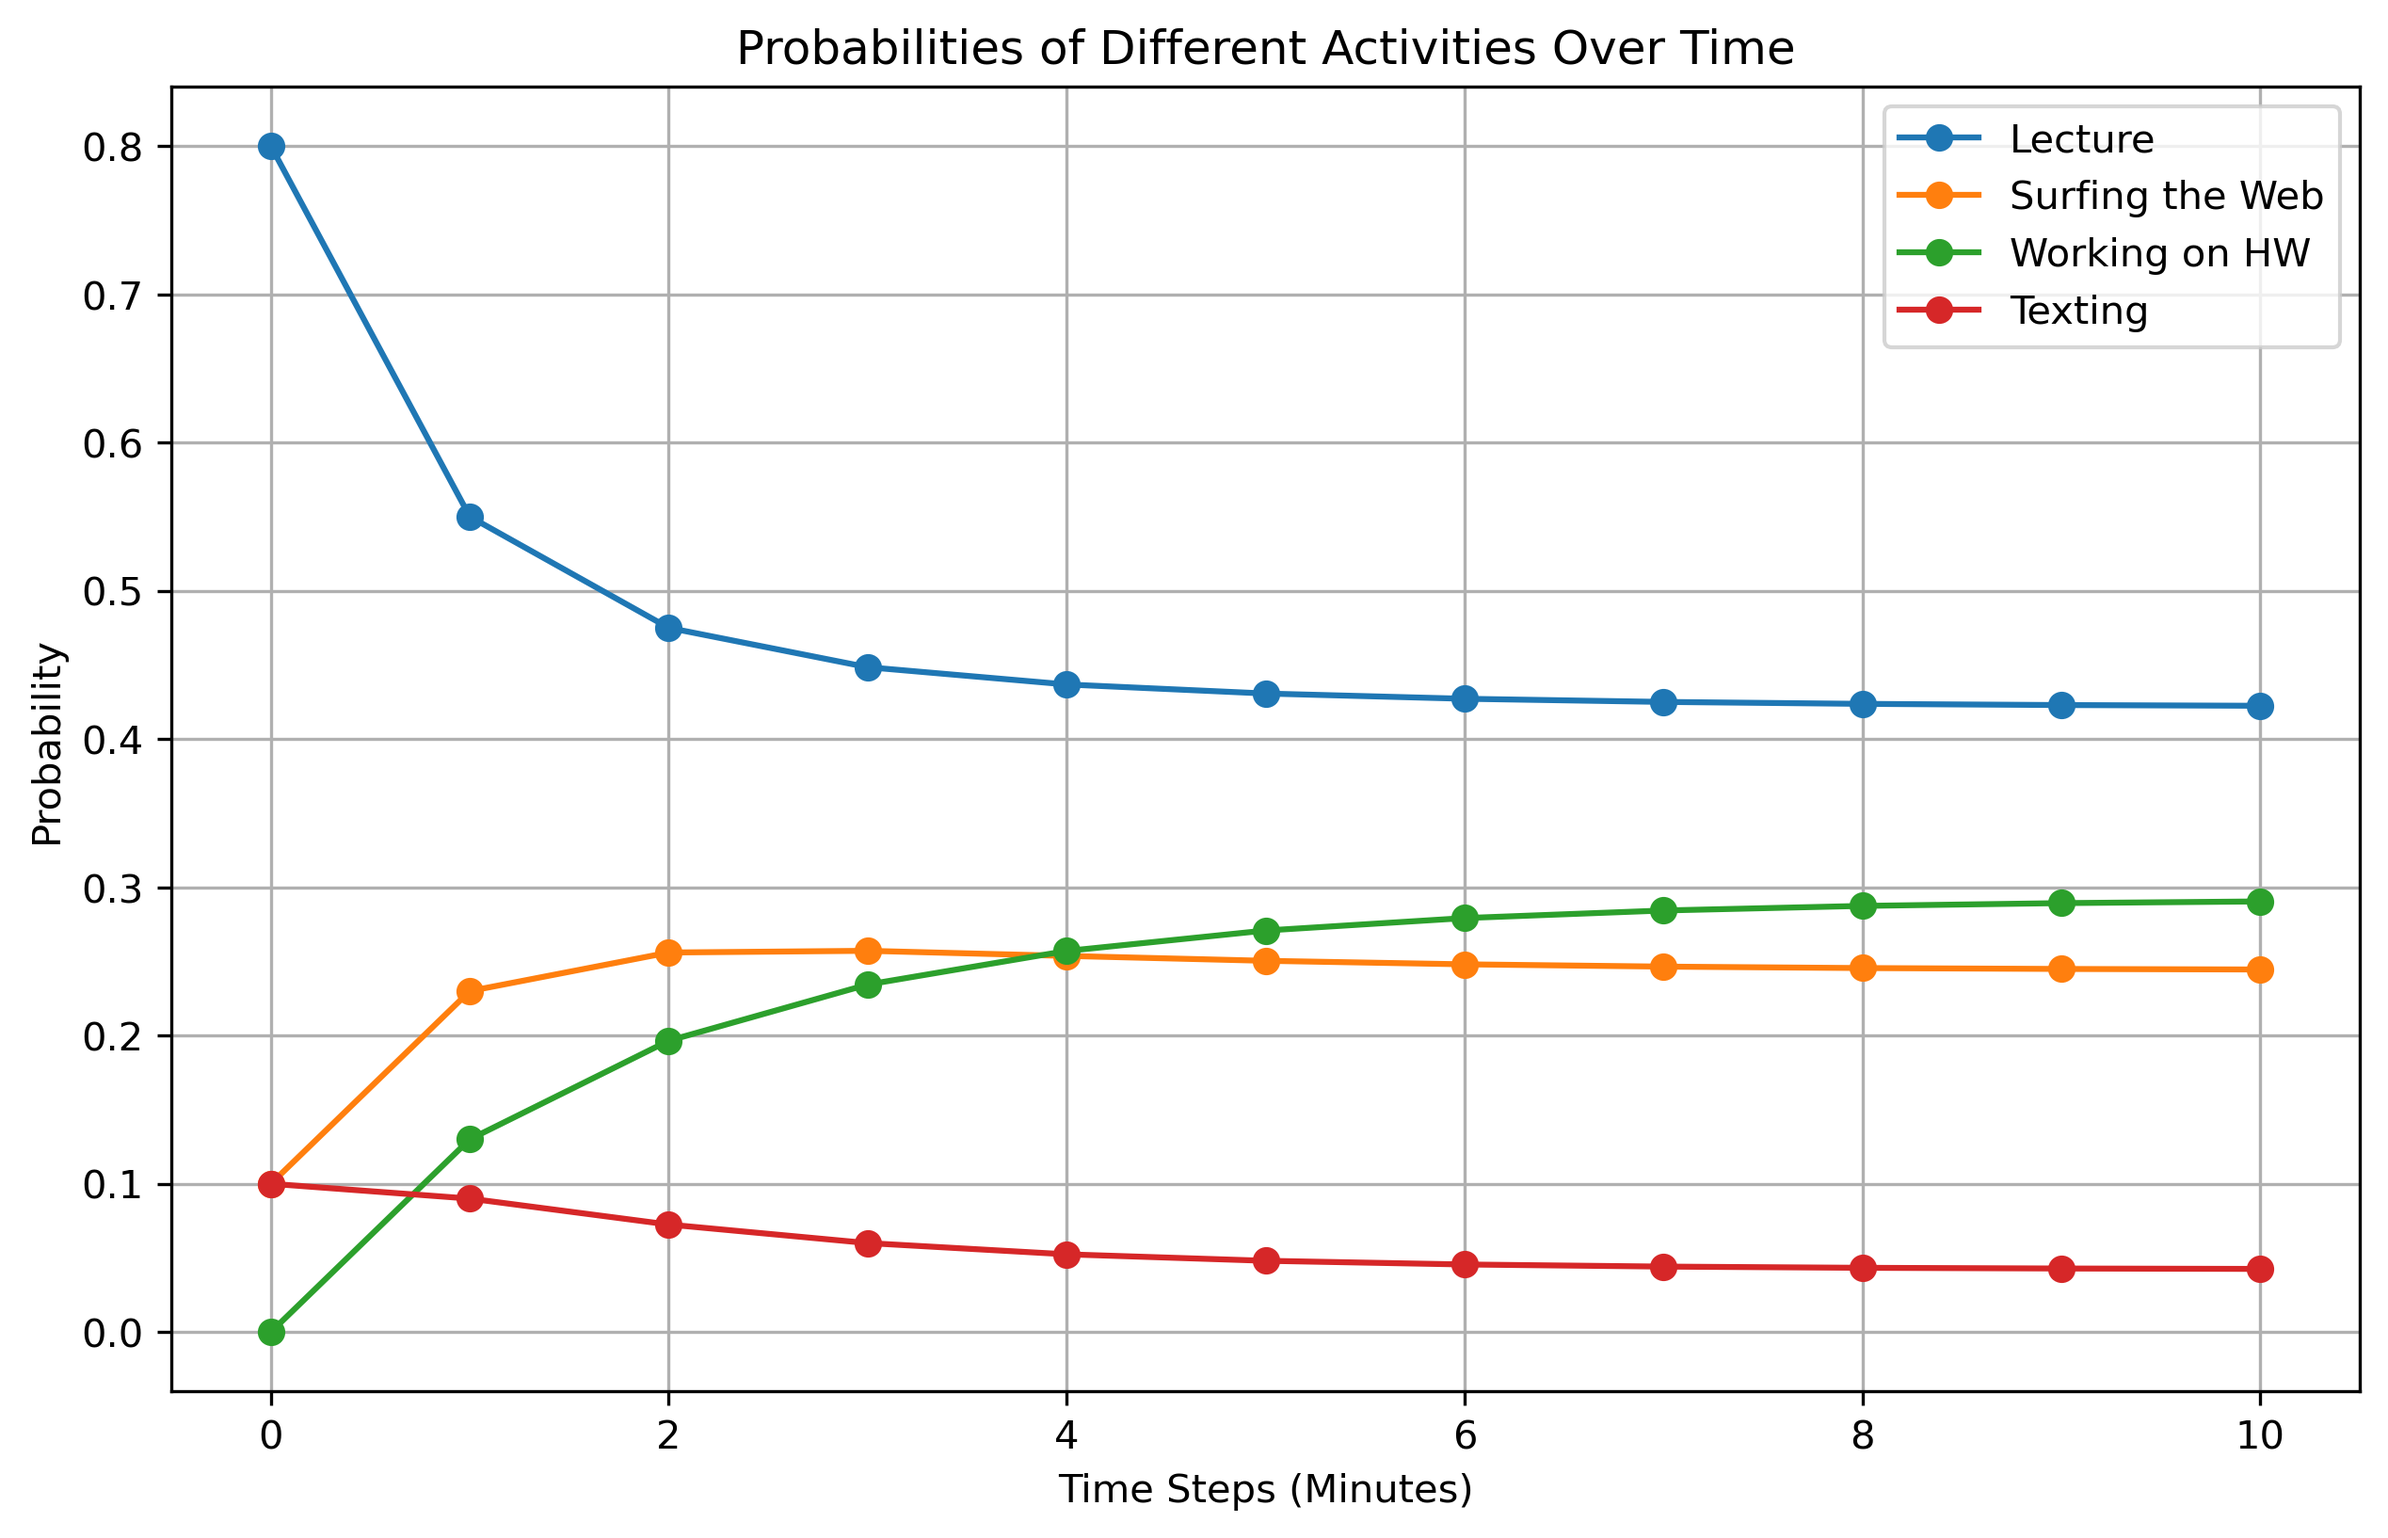
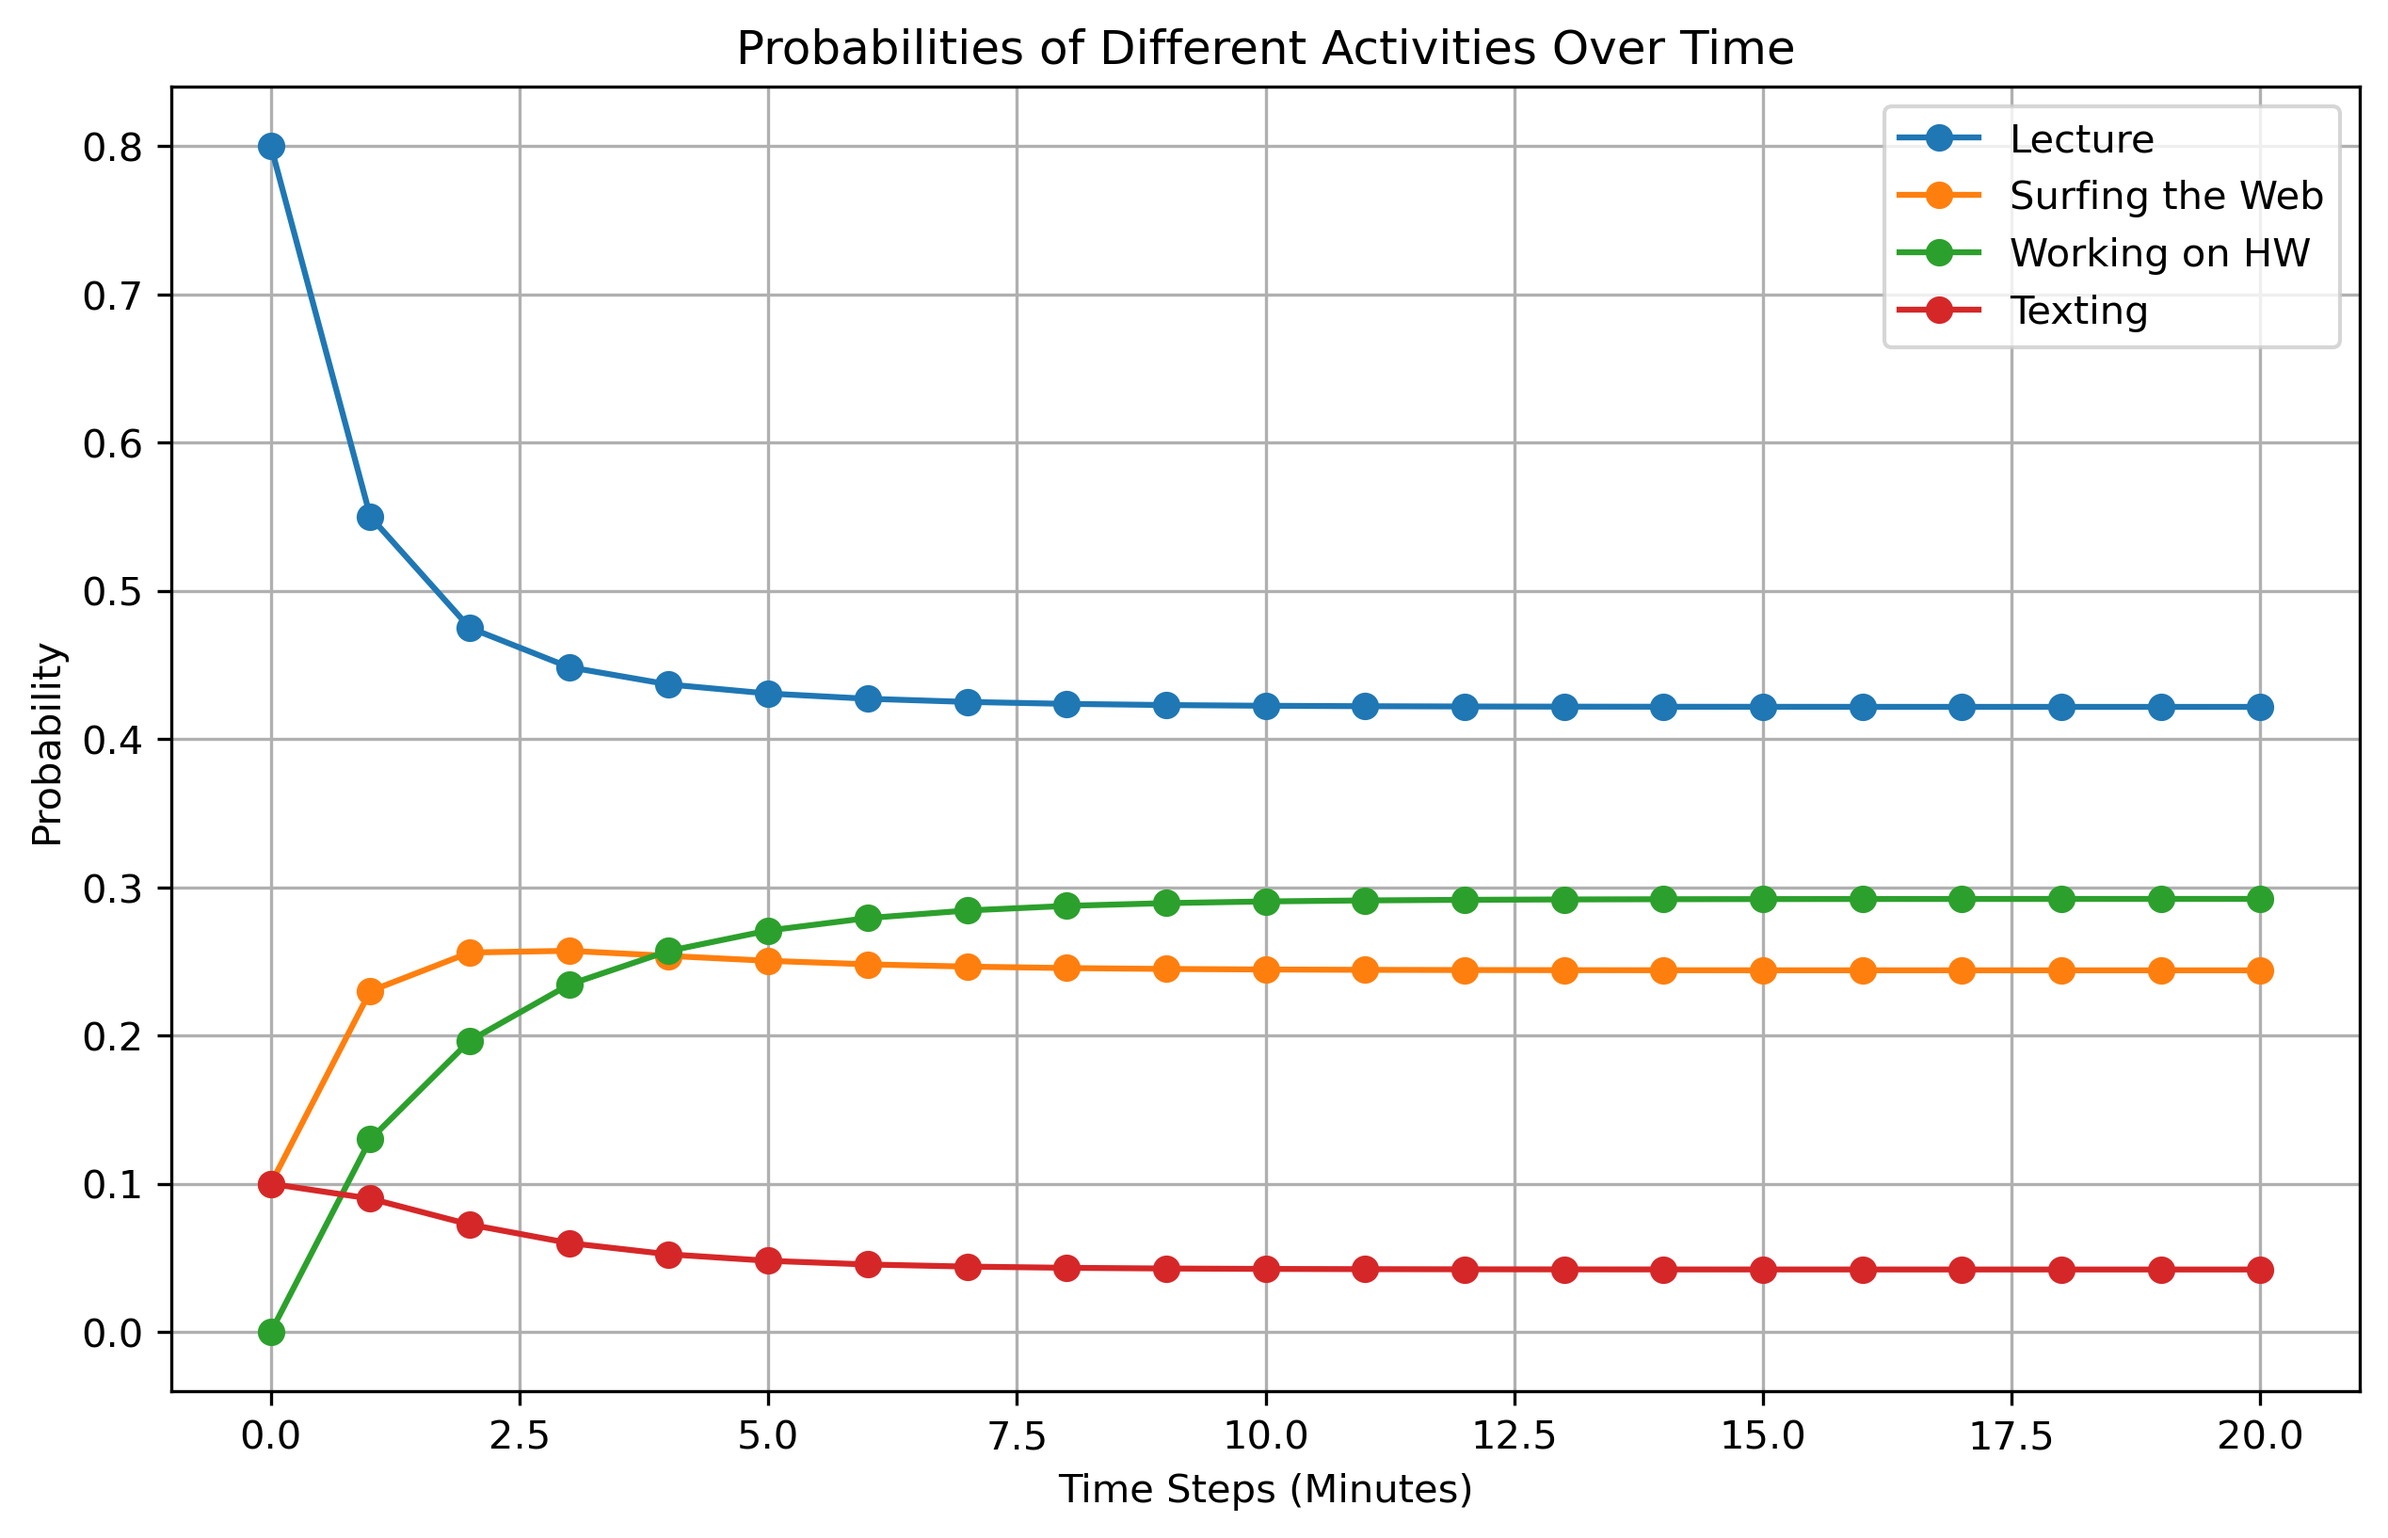
update to 20 on markov_hw

diff --git a/Python/graph/markov_hw.py b/Python/graph/markov_hw.py
@@ -13,7 +13,7 @@ A = np.array([[0.6, 0.4, 0.2, 0.3],
 states_over_time = [v]
 
 # Define how many times you want to multiply the matrix by itself
-num_iterations = 10
+num_iterations = 20
 
 # Perform matrix multiplication
 for i in range(1, num_iterations + 1):
